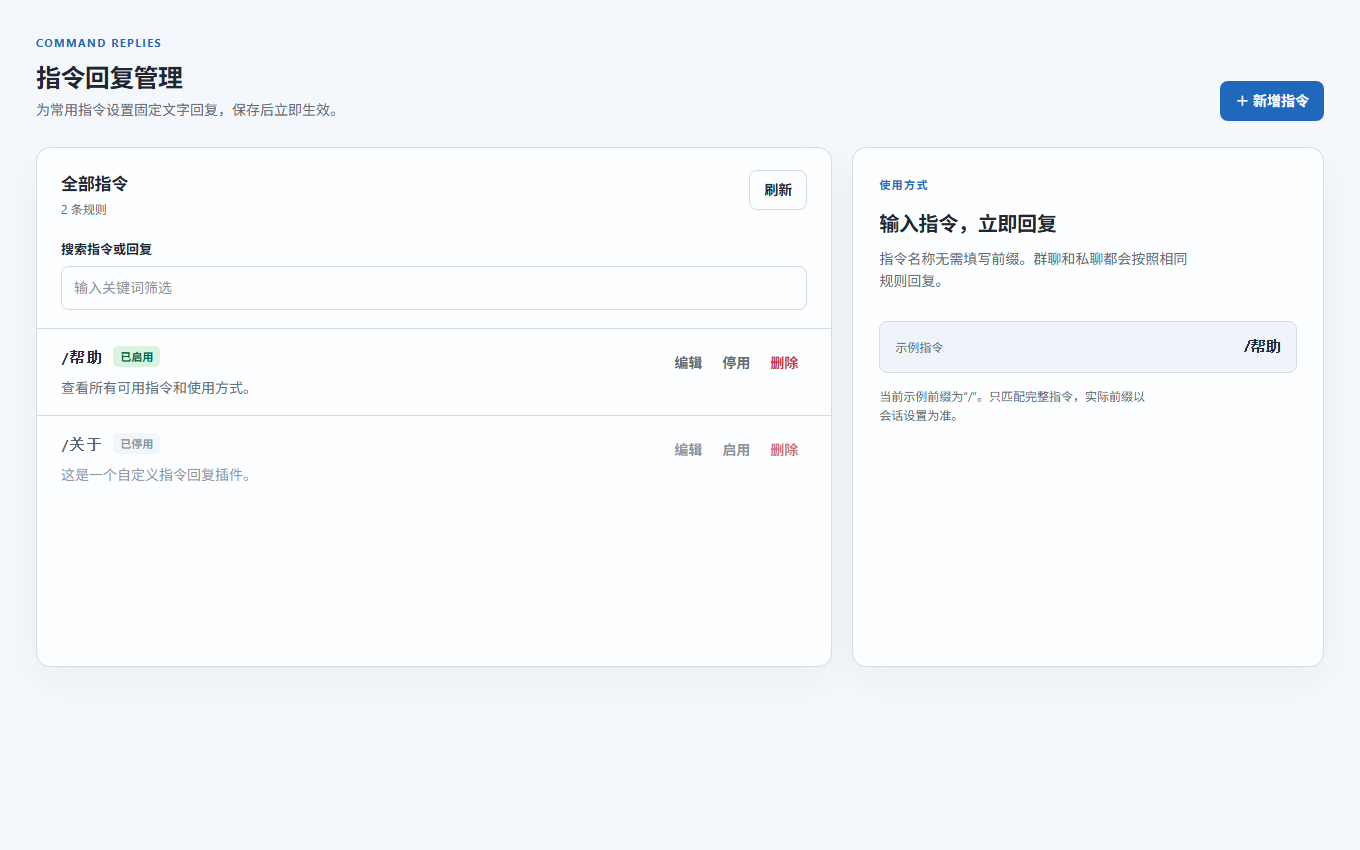
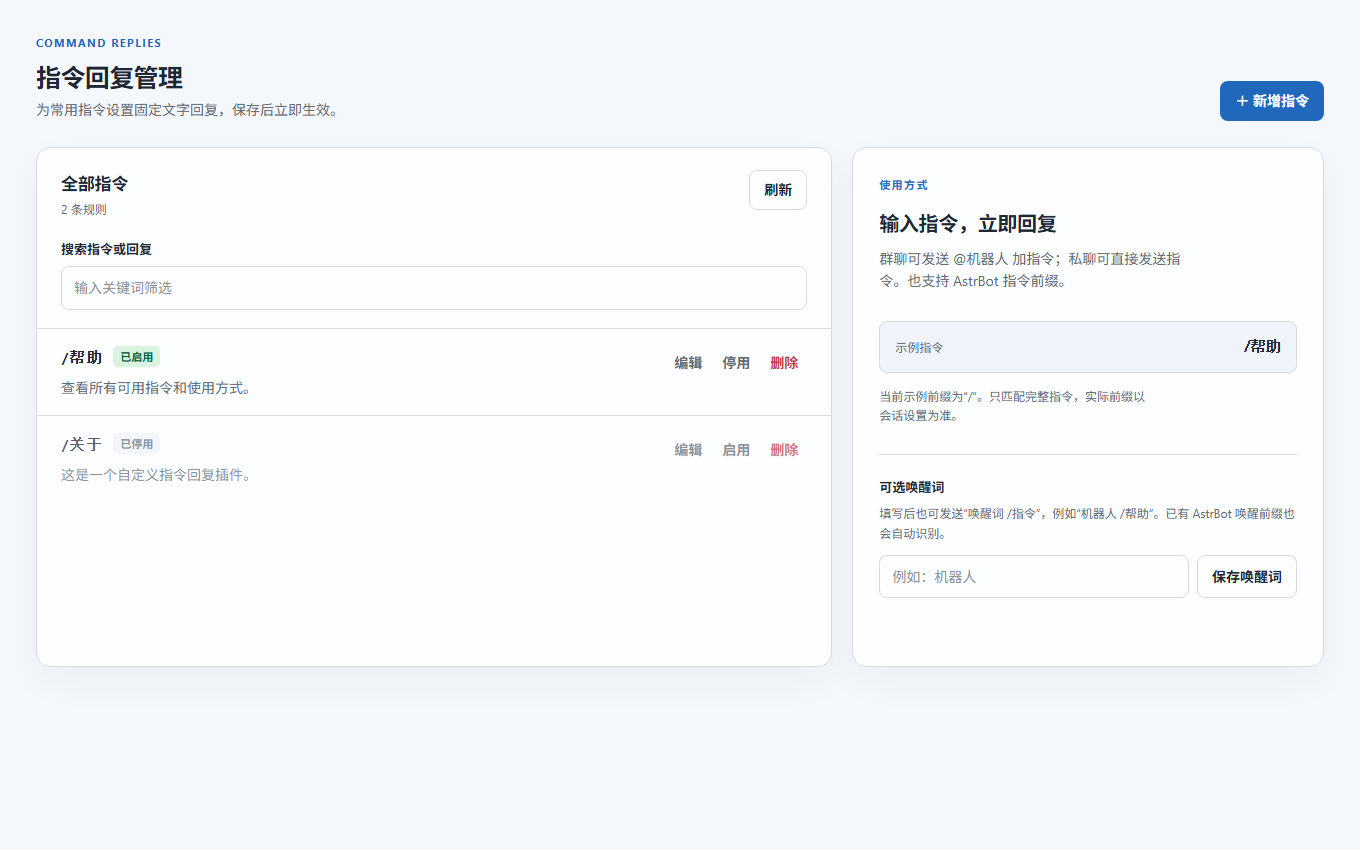
Support mentions, private commands, and wake words

diff --git a/pages/commands/app.js b/pages/commands/app.js
@@ -26,12 +26,16 @@ const elements = {
   cancel: byId("cancel-button"),
   example: byId("example-command"),
   prefixNote: byId("prefix-note"),
+  wakeWordForm: byId("wake-word-form"),
+  wakeWordInput: byId("wake-word-input"),
+  wakeWordSave: byId("wake-word-save"),
 };
 
 const state = {
   rules: [],
   revision: "",
   prefix: "/",
+  wakeWord: "",
   loading: true,
   loadError: false,
   busy: false,
@@ -74,6 +78,8 @@ function updateBusy() {
   elements.save.textContent = state.busy ? "保存中…" : "保存指令";
   elements.cancel.disabled = state.busy;
   elements.closeEditor.disabled = state.busy;
+  elements.wakeWordInput.disabled = state.busy || state.loading || state.loadError;
+  elements.wakeWordSave.disabled = state.busy || state.loading || state.loadError;
 }
 
 function makeButton(label, className, onClick, accessibleLabel = label) {
@@ -211,6 +217,8 @@ async function loadRules() {
     state.rules = data.rules;
     state.revision = data.revision;
     state.prefix = typeof data.prefix === "string" ? data.prefix : "/";
+    state.wakeWord = typeof data.wake_word === "string" ? data.wake_word : "";
+    elements.wakeWordInput.value = state.wakeWord;
     state.loadError = false;
     elements.example.textContent = `${state.prefix}帮助`;
     elements.prefixNote.textContent = state.prefix
@@ -227,7 +235,7 @@ async function loadRules() {
   }
 }
 
-async function persist(nextRules, successMessage) {
+async function persist(nextRules, successMessage, wakeWord = state.wakeWord) {
   if (state.busy) return false;
   state.busy = true;
   updateBusy();
@@ -236,12 +244,14 @@ async function persist(nextRules, successMessage) {
     const data = await bridge.apiPost("rules", {
       rules: nextRules,
       revision: state.revision,
+      wake_word: wakeWord,
     });
     if (!data || !Array.isArray(data.rules) || typeof data.revision !== "string") {
       throw new Error("服务器返回的保存结果不正确。");
     }
     state.rules = data.rules;
     state.revision = data.revision;
+    state.wakeWord = typeof data.wake_word === "string" ? data.wake_word : wakeWord;
     if (typeof data.prefix === "string") state.prefix = data.prefix;
     notify(successMessage);
     return true;
@@ -252,6 +262,19 @@ async function persist(nextRules, successMessage) {
     state.busy = false;
     updateBusy();
     renderList();
+  }
+}
+
+async function saveWakeWord(event) {
+  event.preventDefault();
+  if (state.busy || state.loading || state.loadError) return;
+  const value = elements.wakeWordInput.value.trim();
+  if (value.length > 40 || /[\x00-\x1f]/.test(value) || value.startsWith("/")) {
+    notify("唤醒词最多 40 字，不能换行或以 / 开头。", "error");
+    return;
+  }
+  if (await persist(state.rules, value ? "唤醒词已保存。" : "唤醒词已清空。", value)) {
+    elements.wakeWordInput.value = state.wakeWord;
   }
 }
 
@@ -333,6 +356,7 @@ elements.closeEditor.addEventListener("click", closeEditor);
 elements.cancel.addEventListener("click", closeEditor);
 elements.form.addEventListener("submit", submitForm);
 elements.search.addEventListener("input", renderList);
+elements.wakeWordForm.addEventListener("submit", saveWakeWord);
 elements.reply.addEventListener("input", () => {
   elements.replyCount.textContent = `${elements.reply.value.length} / 10000`;
 });

diff --git a/pages/commands/index.html b/pages/commands/index.html
@@ -57,12 +57,20 @@
           <div id="overview-panel" class="overview-panel">
             <div class="detail-kicker">使用方式</div>
             <h2>输入指令，立即回复</h2>
-            <p>指令名称无需填写前缀。群聊和私聊都会按照相同规则回复。</p>
+            <p>群聊可发送 @机器人 加指令；私聊可直接发送指令。也支持 AstrBot 指令前缀。</p>
             <div class="example-block">
               <span>示例指令</span>
               <code id="example-command">/帮助</code>
             </div>
             <p id="prefix-note" class="supporting-note">当前前缀以 AstrBot 设置为准，只匹配完整指令。</p>
+            <form id="wake-word-form" class="wake-word-form">
+              <label for="wake-word-input">可选唤醒词</label>
+              <p class="field-hint">填写后也可发送“唤醒词 /指令”，例如“机器人 /帮助”。已有 AstrBot 唤醒前缀也会自动识别。</p>
+              <div class="wake-word-row">
+                <input id="wake-word-input" name="wake-word" type="text" maxlength="40" autocomplete="off" placeholder="例如：机器人" />
+                <button id="wake-word-save" class="button button-subtle" type="submit">保存唤醒词</button>
+              </div>
+            </form>
           </div>
 
           <div id="editor-panel" class="editor-panel" hidden>

diff --git a/pages/commands/style.css b/pages/commands/style.css
@@ -161,6 +161,12 @@ textarea { resize: vertical; min-height: 170px; line-height: 1.6; }
 .example-block span { color: var(--muted); font-size: 12px; }
 .example-block code { overflow-wrap: anywhere; color: var(--text); font-size: 14px; font-weight: 700; }
 .overview-panel .supporting-note { font-size: 12px; }
+.wake-word-form { margin-top: 30px; padding-top: 22px; border-top: 1px solid var(--line); }
+.wake-word-form label { display: block; font-size: 13px; font-weight: 650; }
+.wake-word-form .field-hint { margin-bottom: 12px; line-height: 1.6; }
+.wake-word-row { display: flex; gap: 8px; }
+.wake-word-row input { min-width: 0; flex: 1; }
+.wake-word-row .button { flex: none; }
 .editor-heading { display: flex; justify-content: space-between; align-items: flex-start; gap: 10px; margin-bottom: 24px; }
 .editor-heading h2 { margin-top: 8px; font-size: 20px; }
 .field { margin-bottom: 22px; }
@@ -181,6 +187,7 @@ textarea { resize: vertical; min-height: 170px; line-height: 1.6; }
 }
 
 @media (max-width: 560px) {
+  .wake-word-row { flex-direction: column; }
   .app-shell { padding: 24px 14px 40px; }
   .header-row { align-items: stretch; flex-direction: column; }
   .header-row > .button { width: 100%; }

diff --git a/main.py b/main.py
@@ -8,6 +8,7 @@ from typing import Any
 
 from astrbot.api import logger
 from astrbot.api.event import AstrMessageEvent, filter
+from astrbot.api.message_components import At, Plain
 from astrbot.api.star import Context, Star, register
 from astrbot.api.web import error_response, json_response, request
 
@@ -16,13 +17,14 @@ PLUGIN_NAME = "astrbot_plugin_custom_command_reply"
 MAX_RULES = 200
 MAX_COMMAND_LENGTH = 80
 MAX_REPLY_LENGTH = 10000
+MAX_WAKE_WORD_LENGTH = 40
 
 
 @register(
     PLUGIN_NAME,
     "taolicx",
     "在独立管理页配置自定义指令及对应的文字回复。",
-    "1.1.0",
+    "1.2.0",
 )
 class CustomCommandReply(Star):
     def __init__(self, context: Context, config: Any):
@@ -47,11 +49,13 @@ class CustomCommandReply(Star):
         async with self._rules_lock:
             rules = self.config.get("rules", [])
             prefixes = self._wake_prefixes()
+            wake_word = self._wake_word()
             return json_response(
                 {
                     "rules": self._public_rules(rules),
-                    "revision": self._revision(rules),
+                    "revision": self._revision(rules, wake_word),
                     "prefix": prefixes[0] if prefixes else "",
+                    "wake_word": wake_word,
                 }
             )
 
@@ -65,28 +69,35 @@ class CustomCommandReply(Star):
 
         try:
             rules = self._validate_rules(payload.get("rules"))
+            wake_word = self._validate_wake_word(
+                payload.get("wake_word", self._wake_word())
+            )
         except ValueError as exc:
             return error_response(str(exc), status_code=400)
 
         async with self._rules_lock:
             old_rules = self.config.get("rules", [])
-            if revision != self._revision(old_rules):
+            old_wake_word = self._wake_word()
+            if revision != self._revision(old_rules, old_wake_word):
                 return error_response(
                     "规则已在其他页面修改，请刷新后重试。", status_code=409
                 )
             self.config["rules"] = rules
+            self.config["wake_word"] = wake_word
             try:
                 self.config.save_config()
             except Exception as exc:
                 self.config["rules"] = old_rules
+                self.config["wake_word"] = old_wake_word
                 logger.error(f"[CustomCommandReply] 保存规则失败：{exc}")
                 return error_response("保存失败，请查看 AstrBot 日志。", status_code=500)
             prefixes = self._wake_prefixes()
             return json_response(
                 {
                     "rules": self._public_rules(rules),
-                    "revision": self._revision(rules),
+                    "revision": self._revision(rules, wake_word),
                     "prefix": prefixes[0] if prefixes else "",
+                    "wake_word": wake_word,
                 }
             )
 
@@ -108,9 +119,29 @@ class CustomCommandReply(Star):
         return result
 
     @staticmethod
-    def _revision(rules: Any) -> str:
-        raw = json.dumps(rules, ensure_ascii=False, sort_keys=True, default=str)
+    def _revision(rules: Any, wake_word: str) -> str:
+        raw = json.dumps(
+            {"rules": rules, "wake_word": wake_word},
+            ensure_ascii=False,
+            sort_keys=True,
+            default=str,
+        )
         return hashlib.sha256(raw.encode("utf-8")).hexdigest()
+
+    def _wake_word(self) -> str:
+        value = self.config.get("wake_word", "")
+        return value.strip() if isinstance(value, str) else ""
+
+    @staticmethod
+    def _validate_wake_word(value: Any) -> str:
+        if not isinstance(value, str):
+            raise ValueError("唤醒词必须是文字。")
+        value = value.strip()
+        if len(value) > MAX_WAKE_WORD_LENGTH or any(ord(c) < 32 for c in value):
+            raise ValueError(f"唤醒词不能超过 {MAX_WAKE_WORD_LENGTH} 字，且不能包含换行。")
+        if value.startswith("/"):
+            raise ValueError("唤醒词不要填写指令前缀 /。")
+        return value
 
     def _validate_rules(self, raw_rules: Any) -> list[dict[str, Any]]:
         if not isinstance(raw_rules, list):
@@ -169,7 +200,16 @@ class CustomCommandReply(Star):
             return
         raw_text = raw_text.strip()
 
-        command = self._extract_command(raw_text, self._wake_prefixes(event))
+        is_private = event.is_private_chat()
+        at_text = None if is_private else self._at_self_text(event)
+        if at_text is False:
+            return
+        command = self._extract_command(
+            at_text if isinstance(at_text, str) else raw_text,
+            self._wake_prefixes(event),
+            allow_bare=is_private or isinstance(at_text, str),
+            wake_word=self._wake_word(),
+        )
         if command is None:
             return
 
@@ -212,9 +252,36 @@ class CustomCommandReply(Star):
         return sorted(set(prefixes), key=len, reverse=True)
 
     @staticmethod
-    def _extract_command(raw_text: str, prefixes: list[str]) -> str | None:
+    def _at_self_text(event: AstrMessageEvent) -> str | bool | None:
+        messages = event.get_messages()
+        if not messages or not isinstance(messages[0], At):
+            return None
+        if str(messages[0].qq) != str(event.get_self_id()):
+            return False
+        if not all(isinstance(item, Plain) for item in messages[1:]):
+            return False
+        return "".join(item.text for item in messages[1:]).strip()
+
+    @staticmethod
+    def _extract_command(
+        raw_text: str,
+        prefixes: list[str],
+        *,
+        allow_bare: bool = False,
+        wake_word: str = "",
+    ) -> str | None:
+        raw_text = raw_text.strip()
+        if wake_word and raw_text.startswith(wake_word):
+            remainder = raw_text[len(wake_word) :]
+            if remainder and remainder[0].isspace():
+                raw_text = remainder.strip()
         for prefix in prefixes:
             if raw_text.startswith(prefix):
                 command = raw_text[len(prefix) :].strip()
+                if prefix.isalnum():
+                    for inner_prefix in prefixes:
+                        if command.startswith(inner_prefix):
+                            command = command[len(inner_prefix) :].strip()
+                            break
                 return command or None
-        return None
+        return raw_text if allow_bare and raw_text else None

diff --git a/README.md b/README.md
@@ -1,6 +1,6 @@
 # 自定义指令文字回复
 
-在 AstrBot 插件详情中打开独立的“指令管理”页面，逐条设置指令名称与回复文字。群聊、私聊均可使用。只在消息带 AstrBot 当前指令前缀且指令名称完全一致时回复。
+在 AstrBot 插件详情中打开独立的“指令管理”页面，逐条设置指令名称与回复文字。群聊、私聊均可使用；指令名称必须完全一致。
 
 ## 界面预览
 
@@ -21,8 +21,15 @@
 
 原有插件配置表单也保留了规则列表，可以作为备用入口。独立页面与配置表单使用同一份规则。
 
-默认 AstrBot 指令前缀是 `/`，所以发送 `/帮助` 会回复 `这是帮助内容。`。若 AstrBot 修改了唤醒前缀，插件会读取当前会话所用的前缀。
+填写“帮助”后，以下消息都会回复 `这是帮助内容。`：
 
-`帮助`、`/帮助 其他内容` 都不会触发。同名规则按列表中第一条生效。为了避免与内置或其他插件指令冲突，请使用独立名称。
+- 群聊：`@机器人 帮助` 或 `@机器人 /帮助`（需要真正 @ 到机器人）
+- 私聊：`帮助` 或 `/帮助`
+- 群聊或私聊：`/帮助`（默认 AstrBot 指令前缀）
+- 在本插件管理页把可选唤醒词设为“机器人”后：`机器人 /帮助`
+
+若 AstrBot 修改了唤醒前缀，插件会读取当前会话所用的前缀；例如 AstrBot 将“机器人”设为唤醒前缀时，`机器人 /帮助` 也可触发。
+
+群聊未 @ 机器人时，单发 `帮助` 不会触发。`/帮助 其他内容` 不会触发。同名规则按列表中第一条生效。为了避免与内置或其他插件指令冲突，请使用独立名称。
 
 本版只发送固定文字，不支持图片、语音、随机内容或指令参数。
